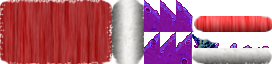
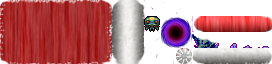
hmm...
about to perform test1!

Changed region(s): [[0.5, 0.0, 0.7353, 1.0]]

diff --git a/js/Preload.js b/js/Preload.js
@@ -12,12 +12,11 @@ TopDownGame.Preload.prototype = {
     this.load.setPreloadSprite(this.preloadBar);
 
     //load game assets
-    this.load.tilemap('level1', 'assets/tilemaps/level2.json', null, Phaser.Tilemap.TILED_JSON);
-    this.load.image('gameTiles', 'assets/images/tiles-1.png');
-    this.load.image('greencup', 'assets/images/greencup.png');
-    this.load.image('bluecup', 'assets/images/bluecup.png');
-    this.load.image('player', 'assets/images/invader.png');
-    this.load.image('browndoor', 'assets/images/browndoor.png');
+    this.load.tilemap('level1', 'assets/level2.json', null, Phaser.Tilemap.TILED_JSON);
+    this.load.image('gameTiles', 'assets/tiles-1.png');
+    this.load.image('greencup', 'assets/whitecell.png');
+    this.load.image('player', 'assets/invader.png');
+    this.load.image('browndoor', 'assets/browndoor.png');
     
   },
   create: function() {
